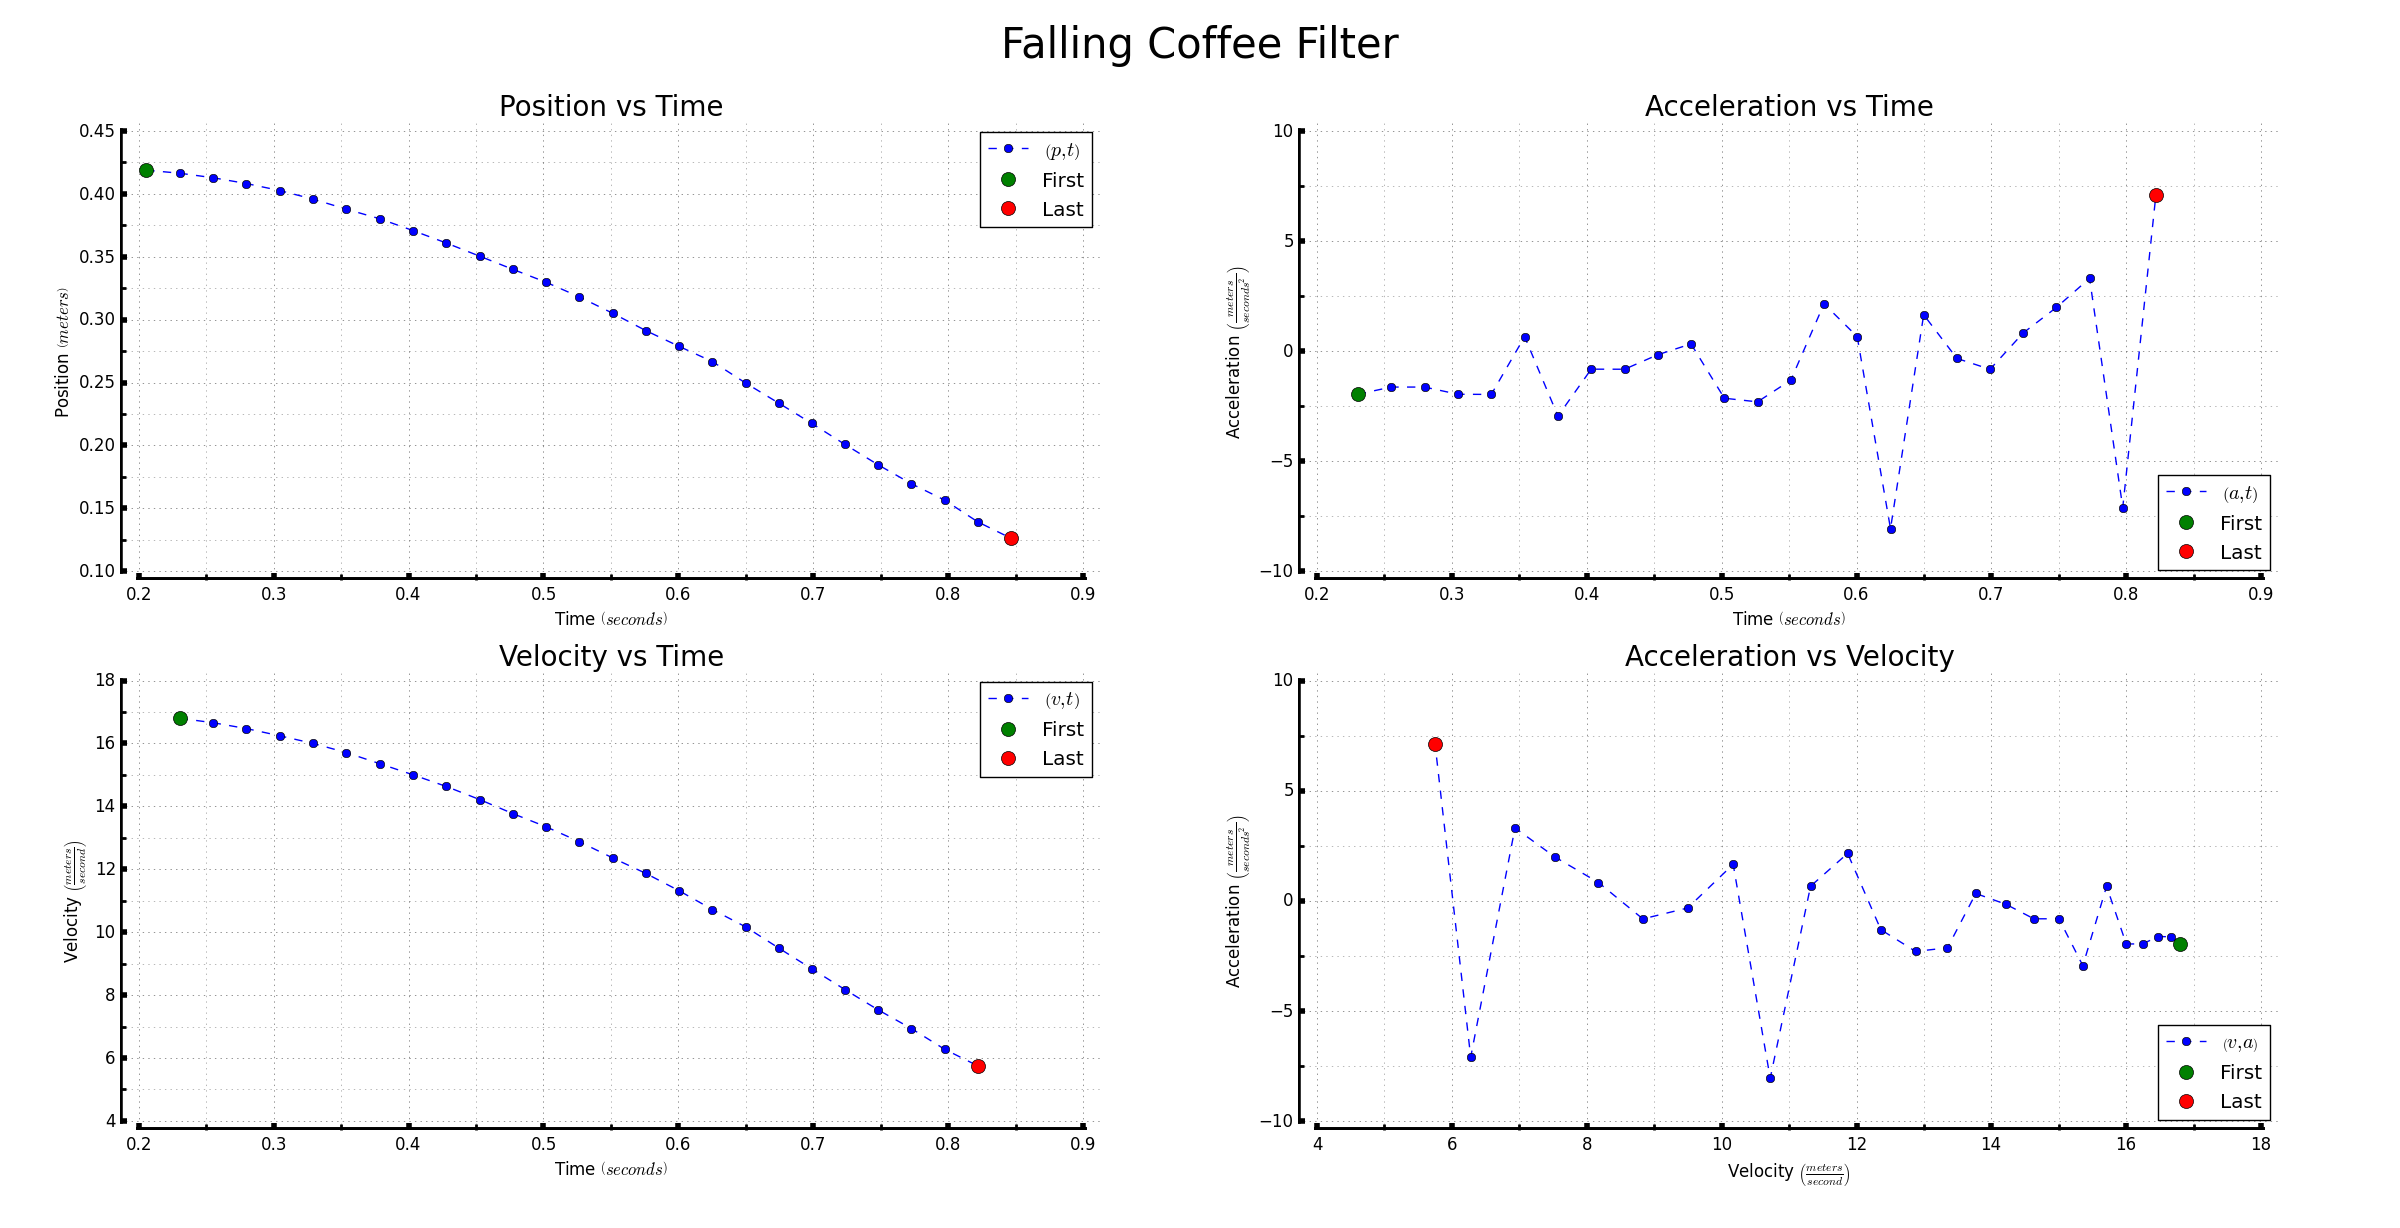
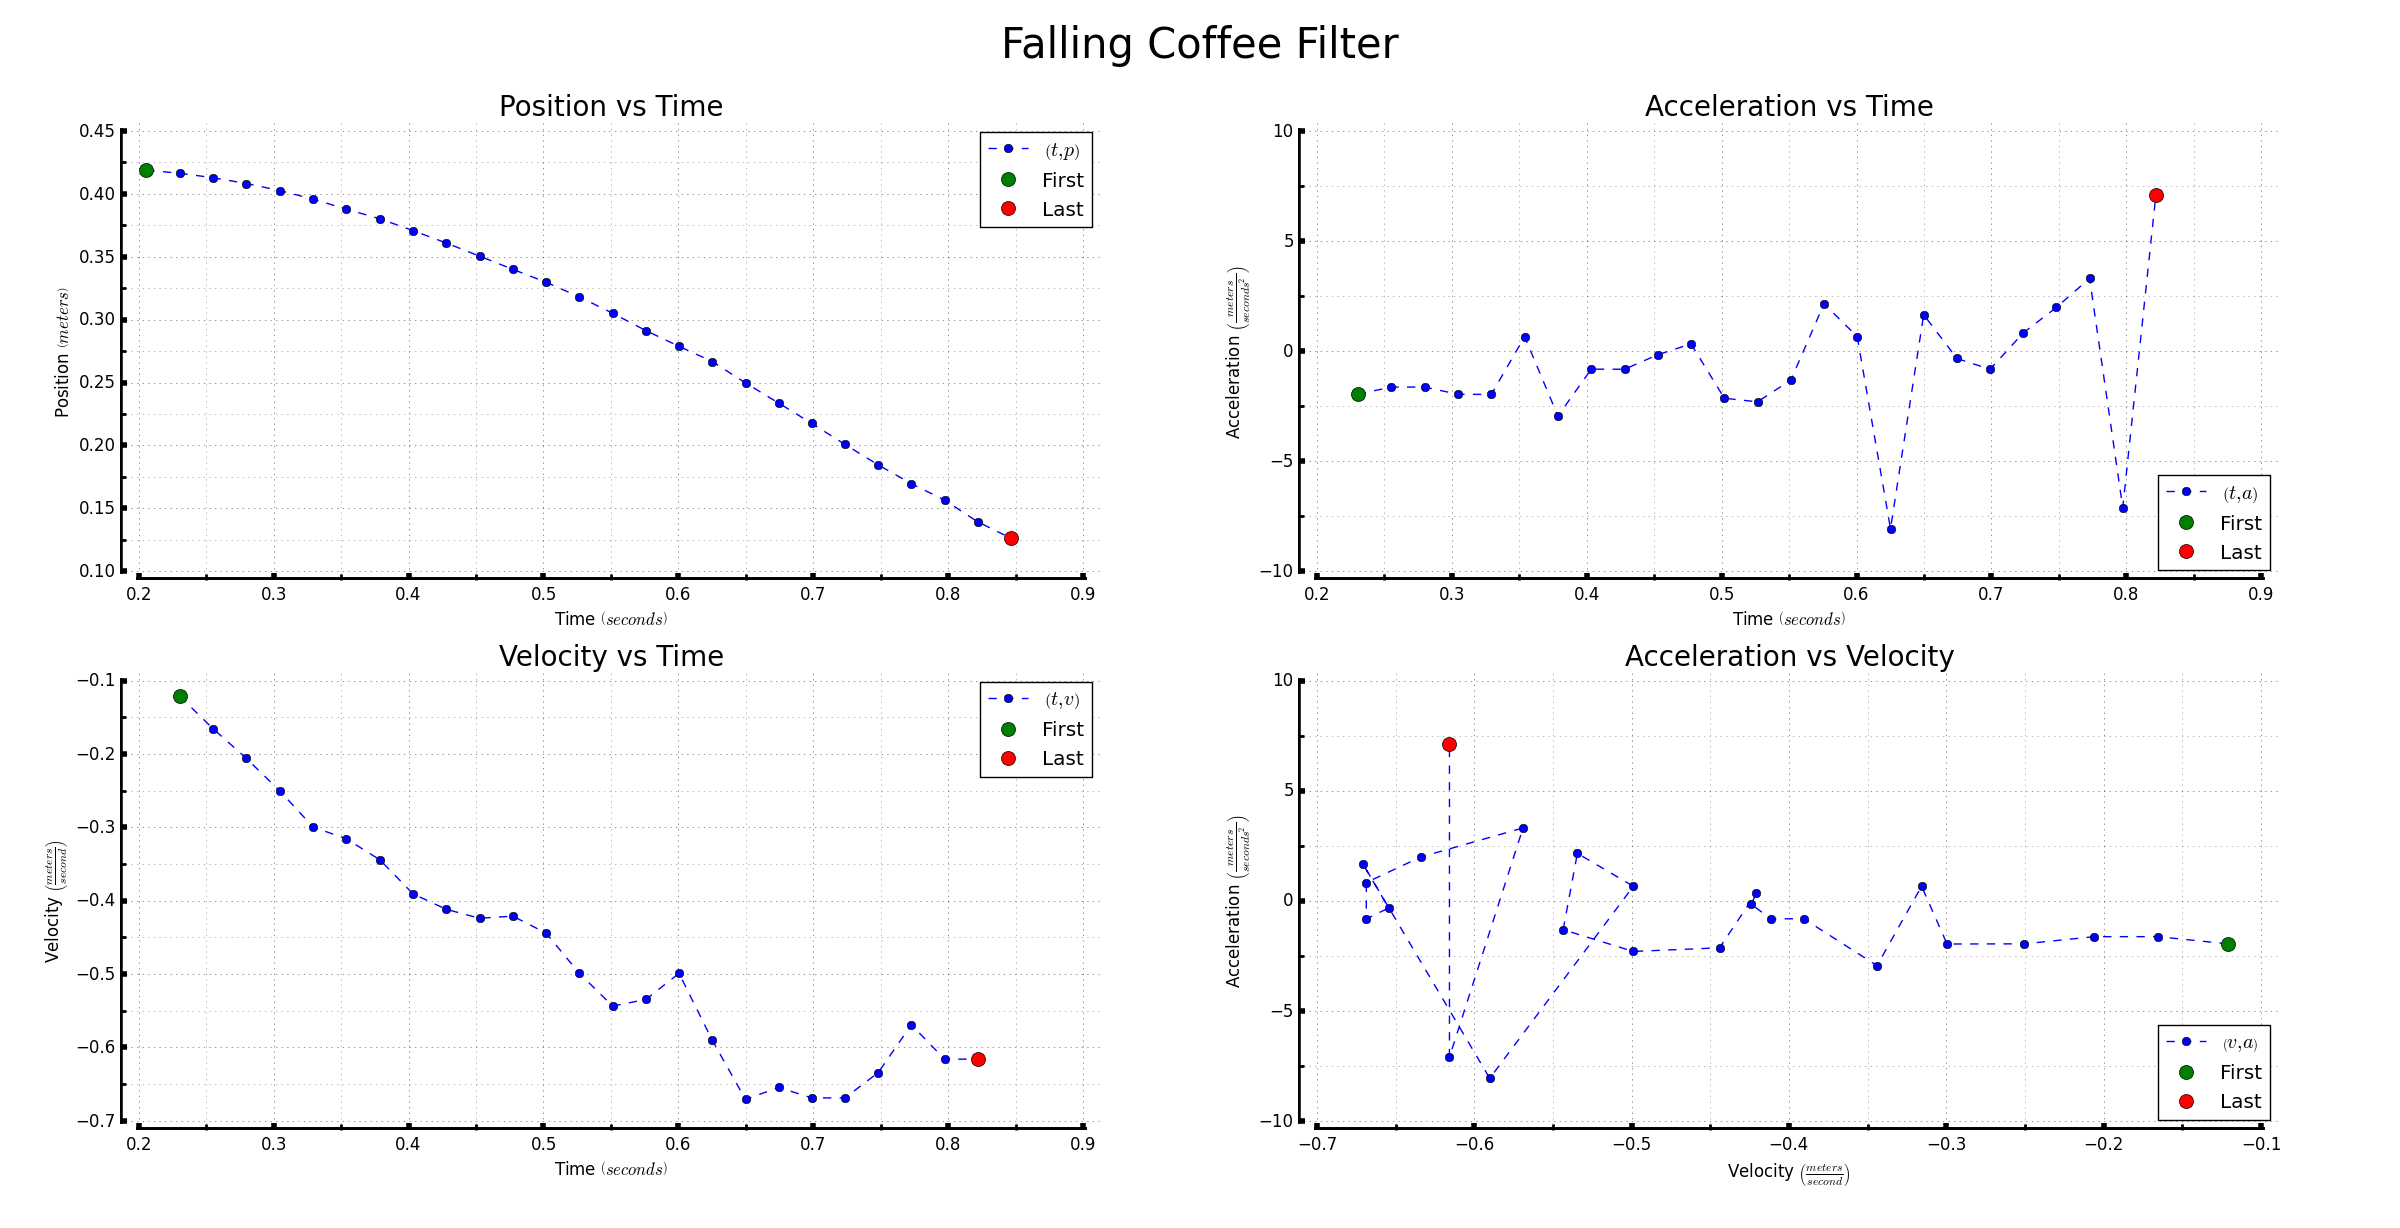
Finished!

diff --git a/coffee-filter.py b/coffee-filter.py
@@ -45,26 +45,18 @@ def predict_correct(f,t,dt,x):
     return times, array(pc_state)
 #/~ ODE Solvers
 
-#-> Not quite sure this is 100% correct...
 def finite_diff(times,x):
-    # Okay... We're going to look at:
-    ##
-    ## y(t + dt) + y(t - dt)
-    ## x[0] and x[1]
-    ## / (2.*dt)
-    v_fd = lambda dt,x: (x[0] + x[1])/(2.*dt)
+    v_fd = lambda dt,x: (x[0] - x[1])/(2.*dt)
     a_fd = lambda dt,x: (x[0] - 2*x[1] + x[2])/(dt**2)
 
-    v = []
-    a = []
+    v = []; a = []; dts = []
     for i in range(1, len(times)-1):
-        dt = (times[i+1] - times[i-1]) /2.
-        v.append(v_fd(dt,[x[i+1], x[i-1]]))
-        a.append(a_fd(dt,[x[i+1], x[i], x[i-1]]))
+        dts.append((times[i+1] - times[i-1]) /2.)
+        v.append(v_fd(dts[i-1],[x[i+1], x[i-1]]))
+        a.append(a_fd(dts[i-1],[x[i+1], x[i], x[i-1]]))
 
-    v = array(v)
-    a = array(a)
-    return v, a
+    v = array(v); a = array(a); dts = array(dts)
+    return v, a, dts
 
 def sample_data(data=None):
     """ Calculates thermal constants from a dataset.
@@ -82,9 +74,9 @@ def sample_data(data=None):
 
     times = data[0,:]; print times
     pos = data[1,:]; print pos
-    vel, acc  = finite_diff(times,pos); print vel; print acc
+    vel, acc, dts = finite_diff(times,pos); print vel; print acc
     
-    return times, pos, vel, acc
+    return times, dts, pos, vel, acc
 
 def plot_samples(times, pos, vel, acc):
     fig, axes = subplots(2, 2)
@@ -94,7 +86,7 @@ def plot_samples(times, pos, vel, acc):
     end_ptmark, = axes[0,0].plot(times[-1], pos[-1], 'ro', ms=10)
     
     axes[0,0].legend(  [ptmark, start_ptmark, end_ptmark],
-                [r'$\left(p,t\right)$', r'First', r'Last'],
+                [r'$\left(t,p\right)$', r'First', r'Last'],
                 numpoints=1,
                 loc="upper right")
 
@@ -109,7 +101,7 @@ def plot_samples(times, pos, vel, acc):
     end_vtmark, = axes[1,0].plot(times[-2], vel[-1], 'ro', ms=10)
 
     axes[1,0].legend(  [vtmark, start_vtmark, end_vtmark],
-                [r'$\left(v,t\right)$', r'First', r'Last'],
+                [r'$\left(t,v\right)$', r'First', r'Last'],
                 numpoints=1,
                 loc="upper right")
     
@@ -124,7 +116,7 @@ def plot_samples(times, pos, vel, acc):
     end_atmark, = axes[0,1].plot(times[-2], acc[-1], 'ro', ms=10)
 
     axes[0,1].legend(  [atmark, start_atmark, end_atmark],
-                [r'$\left(a,t\right)$', r'First', r'Last'],
+                [r'$\left(t,a\right)$', r'First', r'Last'],
                 numpoints=1,
                 loc="lower right")
     
@@ -154,46 +146,103 @@ def plot_samples(times, pos, vel, acc):
 
     show()
 
-#~ Global Variables
-t0 = 0; tf = 10*pi; dt = .1
-times = np.arange(t0, tf, dt)
+def plot_acc_vs_vel(vel,acc):
+    fig, ax = plt.subplots()
 
-g = 9.81
-x0 = 1.; v0 = 0.; a0 = g
-state = [np.array([x0,v0,a0])]
-#/~ Global Variables
+    avmark, = ax.plot(vel, acc, 'b--o')
+    start_avmark, = ax.plot(vel[0], acc[0], 'go', ms=10)
+    end_avmark, = ax.plot(vel[-1], acc[-1], 'ro', ms=10)
 
-#~ Entry point of the script.
-if __name__ == "__main__":
-<<<<<<< HEAD
-    sample_data()
+    ax.legend(  [avmark, start_avmark, end_avmark],
+                [r'$\left(v,a\right)$', r'First', r'Last'],
+                numpoints=1,
+                loc="lower right")
     
+    configure(  ax=ax,
+                title="Acceleration vs Velocity",
+                xlabel=r"Velocity $\left(\frac{meters}{second}\right)$",
+                ylabel=r"Acceleration $\left(\frac{meters}{seconds^2}\right)$",
+                xbounds=None, ybounds=(-10,10))
+
+    fig.suptitle("Falling Coffee Filter", size=30)
+    fig.subplots_adjust(left=0.05, right=0.95, top=0.9, bottom=0.08)
+
+    show()
+
+def plot_samples_and_models(times, pos, vel, acc):
+    F1 = [array([pos[0], vel[0]])]
+    F2 = [array([pos[0], vel[0]])]
+    for t,dt,p,v in zip(times,dts,pos,vel)[1:]:
+        F1.append(rk4(falld1, t, dt, F1[-1]))
+        F2.append(rk4(falld2, t, dt, F2[-1]))
+
+    F1 = array(F1)
+    F2 = array(F2)
+
+    fig, axes = subplots(2)
+
+    pmark, = axes[0].plot(times, pos, 'b--o')
+    plmark, = axes[0].plot(times[:-2], F1[:,0], 'g--o')
+    pqmark, = axes[0].plot(times[:-2], F2[:,0], 'r--o')
+
+    axes[0].legend(  [pmark, plmark, pqmark],
+                [r'$\left(t,p\right)$', r'Linear', r'Quadratic'],
+                numpoints=1,
+                loc="upper right")
+    
+    configure(  ax=axes[0],
+                title=r'Position vs Time $\left(v_t='+ str(vT)+ r'\right)$',
+                xlabel=r"Time $\left(seconds\right)$",
+                ylabel=r"Position $\left(meters\right)$",
+                xbounds=None, ybounds=(0,.5))
+
+    vmark, = axes[1].plot(times[:-2], vel, 'b--o')
+    vlmark, = axes[1].plot(times[:-2], F1[:,1], 'g--o')
+    vqmark, = axes[1].plot(times[:-2], F2[:,1], 'r--o')
+
+    axes[1].legend(  [vmark, vlmark, vqmark],
+                [r'$\left(t,v\right)$', r'Linear', r'Quadratic'],
+                numpoints=1,
+                loc="upper right")
+    
+    configure(  ax=axes[1],
+                title=r'Velocity vs Time $\left(v_t='+str(vT)+r'\right)$',
+                xlabel=r"Time $\left(seconds\right)$",
+                ylabel=r"Velocity $\left(\frac{meters}{second}\right)$",
+                xbounds=None, ybounds=None)
+
+    fig.suptitle("Falling Coffee Filter", size=30)
+    fig.subplots_adjust(left=0.05, right=0.95, top=0.9, bottom=0.08)
+
+    show()
+
 #sliding average for smoothing
 def slide_avg(x):
     avg = []
     for i in range(len(x)-2):
         avg.append((x[i]+x[i+1]+x[i+2])/3)
     return np.array(avg)
-position_avg = slide_avg(position)
-#can change the last line to velocity and then acc
-#This is what I have been working on so far
-t = time    
-x = position
-for i in range(1,len(x)-1):
-    dt = ((t[i+1] + t[i-1])/2)
-    v.append((x[i+1] - x[i-1])/(2*(dt)))
-    a.append((x[i+1] - 2*(x[i]) + x[i-1])/(dt**2))
-
-vT = -0.025
 
 def falld1(t,x):
-    return np.array([x[1],g(1-(x[1]/vT))])
+    return np.array([x[1],g*(1-(x[1]/vT))])
 
 def falld2(t,x):
-    return np.array([x[1],g(1-(x[1]/vT)**2)])
+    return np.array([x[1],g*(1-(x[1]/vT)**2)])
 # this is when I was going to run rk with the two falling models
 
-=======
-    times, pos, vel, acc = sample_data()
+#~ Entry point of the script.
+if __name__ == "__main__":
+    #~ State Variables
+    t0 = 0; tf = 10*pi; dt = .1
+    times = np.arange(t0, tf, dt)
+
+    g = -9.81
+    x0 = 1.; v0 = 0.; vT = -0.425; a0 = g
+    state = [np.array([x0,v0,a0])]
+    #/~ State Variables
+
+    times, dts, pos, vel, acc = sample_data()
+    
     plot_samples(times, pos, vel, acc)
->>>>>>> Plots and Finite Difference
+    plot_acc_vs_vel(vel,acc)
+    plot_samples_and_models(times, pos, vel, acc)
